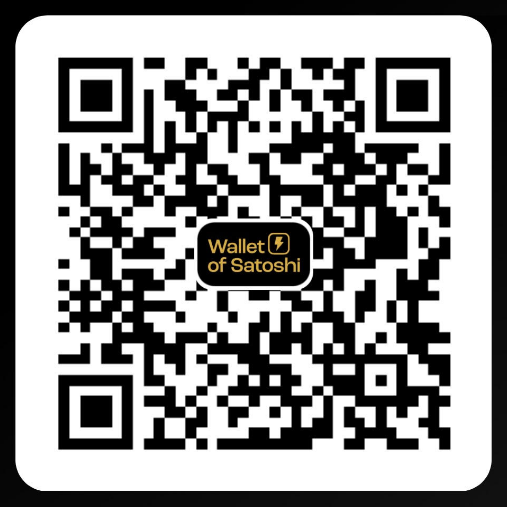
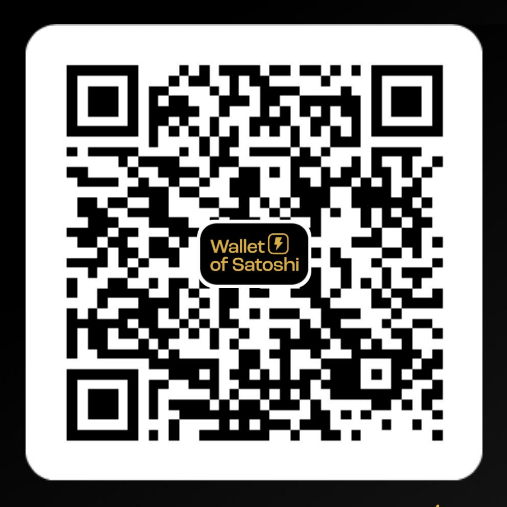
chore: update ln

diff --git a/src/components/BitcoinCard.vue b/src/components/BitcoinCard.vue
@@ -70,5 +70,5 @@
   import CopyButton from '../components/CopyButton.vue'
 
   const BC1_ADDRESS = 'bc1qzsdges0lm34jkjfydgltr6jqnuxcjrj7rapuyy'
-  const LN_ADDRESS = 'longstring52@walletofsatoshi.com'
+  const LN_ADDRESS = 'psycarlo@walletofsatoshi.com'
 </script>
